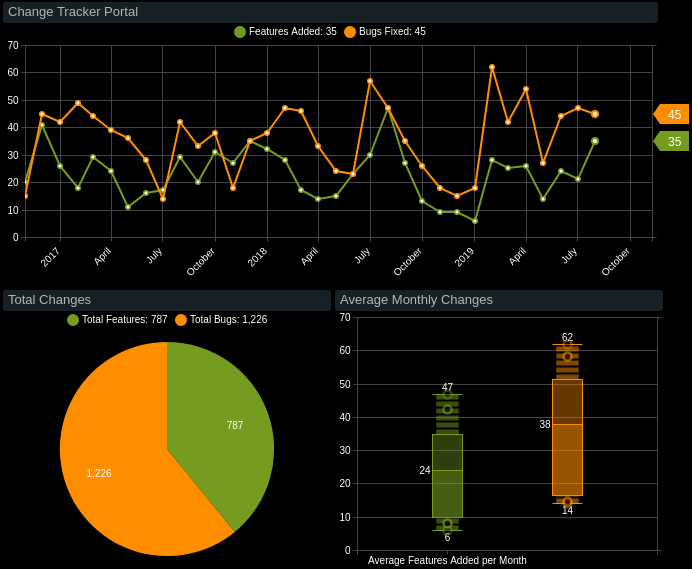
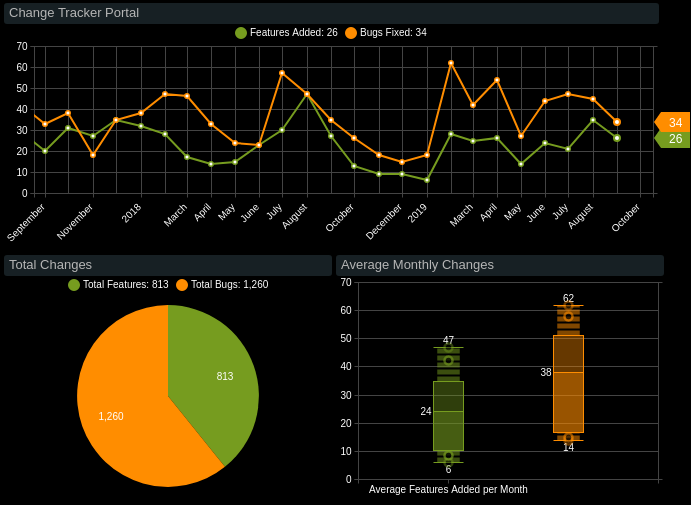
September changelog (#937)
* September changelog

* Linter

* Minor fixes

diff --git a/changelogs/2019_sep/README.md b/changelogs/2019_sep/README.md
@@ -1,0 +1,77 @@
+# Monthly Change Log: September 2019
+
+## ATSD
+
+ Issue| Category    | Type    | Subject
+------|-------------|---------|--------
+3049|sql|Feature|[SQL](../../sql/README.md): Additional [math](../../sql/README.md#mathematical-functions) functions.
+5772|UI|Feature|[CSV Parser Wizard](../../tutorials/getting-started-insert.md#csv-files): implement wizard-based parser UI.
+5858|odbc|Feature|[ODBC](https://github.com/axibase/atsd-odbc/releases) driver.
+6225|UI|Feature|[Rule Engine](../../rule-engine/README.md): save notification state on [webhook](../../rule-engine/notifications/README.md) switch.
+6251|rule engine|Feature|[Rule Engine](../../rule-engine/README.md): add support for [`control flow`](../../rule-engine/control-flow.md) tags and [`expression`](../../rule-engine/condition.md) context to [Email](../../rule-engine/email.md) recipients input.
+6278|rule editor|Bug|[Rule Engine](../../rule-engine/README.md): [`expression`](../../rule-engine/condition.md) syntax is not highlighted in [Email](../../rule-engine/email.md) recipients.
+6425|csv|Feature|[CSV Parser](../../parsers/csv/README.md#uploading-csv-files): add custom tag with static value.
+6460|message|Bug|Message stats: flexible filtering using [`tagExpression`](../../api/data/messages/stats.md#calculation-fields).
+6480|rule engine|Bug|[Rule Engine](../../rule-engine/README.md): unable to show alert details if a [variable](../../rule-engine/condition.md#variables) has `null` value.
+6488|rule engine|Feature|[Rule Engine](../../rule-engine/README.md): optional parameter for [`detailsTable`](../../rule-engine/details-table.md) to print only local variables.
+6492|sql|Bug|[SQL](../../sql/README.md): unexpected result with `LIMIT 1` during write activity.
+6503|rule engine|Bug|[Rule Editor](../../rule-engine/README.md): message search direction in [webhook](../../rule-engine/notifications/README.md) test.
+6507|rule editor|Feature|[Rule Editor](../../rule-engine/README.md): add local [variables](../../rule-engine/condition.md#variables) to auto-complete.
+6509|rule engine|Feature|[Rule Engine](../../rule-engine/README.md): [variable](../../rule-engine/condition.md#variables) writer in **Test** mode.
+6510|rule engine|Feature|[Rule Engine](../../rule-engine/README.md): support [calendar syntax](../../shared/calendar.md) in [`db_statistics`](../../rule-engine/functions-series.md#db_statistics) and [`db_statistic`](../../rule-engine/functions-series.md#db_statistic) functions.
+6518|sql|Feature|[SQL](../../sql/README.md): support `DayOfMonth` and `DayOfYear` units in [`EXTRACT`](../../sql/README.md#extract) function.
+6523|rule editor|Bug|[Rule Engine](../../rule-engine/README.md): **Test** using init and event scripts inconclusive.
+6524|UI|Bug|[Replacement Table](../../api/meta/replacement-table/create-or-replace.md#replacement-table-create-or-replace): datatype and header guess incorrect in paste.
+6526|rule editor|Bug|[Rule Editor](../../rule-engine/README.md): add all conditions to context links.
+6528|sql|Bug|[SQL](../../sql/README.md): fix [`DATEADD`](../../sql/README.md#dateadd) to recognize date in [ISO format](../../shared/date-format.md).
+6529|rule engine|Bug|[Rule Engine](../../rule-engine/README.md): [**Derived Commands**](../../rule-engine/derived.md) validator loads wrong command.
+6532|rule engine|Bug|[Rule Engine](../../rule-engine/README.md): **Test** error lacks explanation.
+6533|rule editor|Feature|[Rule Editor](../../rule-engine/README.md): auto-complete in placeholders.
+6535|rule engine|Bug|[Rule Engine](../../rule-engine/README.md): infinite or `NaN` error is non-descriptive.
+6536|sql|Feature|[SQL](../../sql/README.md): `DISTINCT` keyword in [aggregation](../../sql/README.md#analytical-functions) functions.
+6538|sql|Feature|[SQL](../../sql/README.md): support `SELECT DISTINCT`.
+6539|rule engine|Feature|[Rule Engine](../../rule-engine/README.md): add `iso` field to [`DateTime`](../../rule-engine/object-datetime.md) object.
+6540|rule engine|Bug|[Rule Engine](../../rule-engine/README.md): **Test** results unexpected for `count == 0` rule.
+6543|rule editor|Feature|[Rule Editor](../../rule-engine/README.md): support `Ctrl+click` in functions with argument expressions.
+6544|rule editor|Bug|[Rule Editor](../../rule-engine/README.md): field name or expression missing from error message in **Test** mode.
+6545|UI|Feature|UI: standardise page titles.
+6551|rule editor|Bug|[Rule Editor](../../rule-engine/README.md): error message not specific.
+6552|rule engine|Bug|[Rule Engine](../../rule-engine/README.md): allow [`db_statistics`](../../rule-engine/functions-series.md#db_statistics) to calculate statistics for multiple series.
+6553|rule editor|Bug|[Rule Editor](../../rule-engine/README.md): add Date filter column.
+6555|rule editor|Bug|[Rule Editor](../../rule-engine/README.md): functions missing in auto-complete.
+6556|rule engine|Bug|[Rule Engine](../../rule-engine/README.md): `BETWEEN` operator fails when used in user [variables](../../rule-engine/condition.md#variables).
+6559|sql|Feature|[SQL](../../sql/README.md): add function to [access](../../sql/README.md#collection) **Named Collection**.
+6560|sql|Feature|[SQL](../../sql/README.md): sliding [time window](../../rule-engine/window.md#time-based-windows).
+6563|sql|Feature|[SQL](../../sql/README.md): link to console from preview.
+6564|rule engine|Bug|[Rule Engine](../../rule-engine/README.md): do not initialize windows for series that do not satisfy **Test** filter.
+6565|rule engine|Bug|[Rule Engine](../../rule-engine/README.md): cache [`value()`](../../rule-engine/functions-value.md) calls during **Test**.
+6569|rule editor|Bug|[Rule Engine](../../rule-engine/README.md): [notification](../../rule-engine/notifications/README.md) test hangs.
+6570|administrator|Feature|[Logging](../../administration/logging.md): do not compress non-log files in `logs` directory.
+6571|sql|Bug|[SQL](../../sql/README.md): unexpected column order in [`OUTER`](../../sql/README.md#outer-join) query.
+6576|rule engine|Bug|[Rule Engine](../../rule-engine/README.md): user [variable](../../rule-engine/condition.md#variables) is not accessible in [property-based](../../rule-engine/filters.md#data-type-filter) window.
+6577|rule engine|Bug|[Rule Engine](../../rule-engine/README.md): [`db_message_last`](../../rule-engine/functions-message.md#db_message_last) returns not the last message.
+6581|rule editor|Feature|[Rule Editor](../../rule-engine/README.md): add syntax highlighting to [`condition`](../../rule-engine/condition.md) script fields.
+6593|rule engine|Feature|[Rule Engine](../../rule-engine/README.md): [`unlock`](../../rule-engine/functions-utility.md#unlock) function.
+6597|rule engine|Bug|[Rule Engine](../../rule-engine/README.md): statistics are empty for window with size 1.
+6598|rule engine|Bug|[Rule Engine](../../rule-engine/README.md): HTTP 500 error on [property-based](../../rule-engine/filters.md#data-type-filter) [time](../../rule-engine/window.md#time-based-windows) window.
+
+## Charts
+
+ Issue| Category    | Type    | Subject
+------|-------------|---------|--------
+6359|console|Feature|Table Widgets: implement setting to [highlight](https://axibase.com/docs/charts/widgets/shared-table/#new-row-color) recently received rows.
+6379|table|Feature|Alert Table: add functionality to [collapse](https://axibase.com/docs/charts/widgets/alert-table/#collapsible) row.
+6439|table|Bug|Table Widgets: button icons are not vertically aligned.
+6542|table|Bug|Table Widgets: derived column became broken if [`label`](https://axibase.com/docs/charts/widgets/shared/#label) is specified.
+6546|widget-settings|Bug|Settings: [`auto-scale`](https://axibase.com/docs/charts/widgets/time-chart/#auto-scale) and [`max-range-force`](https://axibase.com/docs/charts/widgets/shared/#max-range-force).
+6557|chart lab|Bug|[Calendar](https://axibase.com/docs/charts/widgets/calendar-chart/): add missing validator rules.
+6567|chart lab|Support|ChartLab and Language Server: obsolete syntax in widget snippets.
+6575|treemap|Bug|[Treemap](https://axibase.com/docs/charts/widgets/treemap/): add validation rules.
+
+## Collector
+
+Issue| Category    | Type    | Subject
+------|-------------|---------|--------
+6344|core|Bug|Core: prevent memory leak.
+6456|mqtt|Bug|[MQTT](https://axibase.com/docs/axibase-collector/jobs/mqtt.html): JSON configuration enhancement.
+6587|administrator|Feature|Administration: show time sync with storage as alert.

diff --git a/changelogs/README.md b/changelogs/README.md
@@ -10,6 +10,7 @@ Follow development in the **Change Tracker Portal** and review details in the **
 
 | **Month** | **Features** | **Bugs** | &nbsp;
 |---|---:|---:|---|
+| September | `26` | `34` | [↗](2019_sep/README.md)
 | August | `35` | `45` | [↗](2019_aug/README.md)
 | July | `21` | `47` | [↗](2019_jul/README.md)
 | June | `24` | `44` | [↗](2019_june/README.md)
